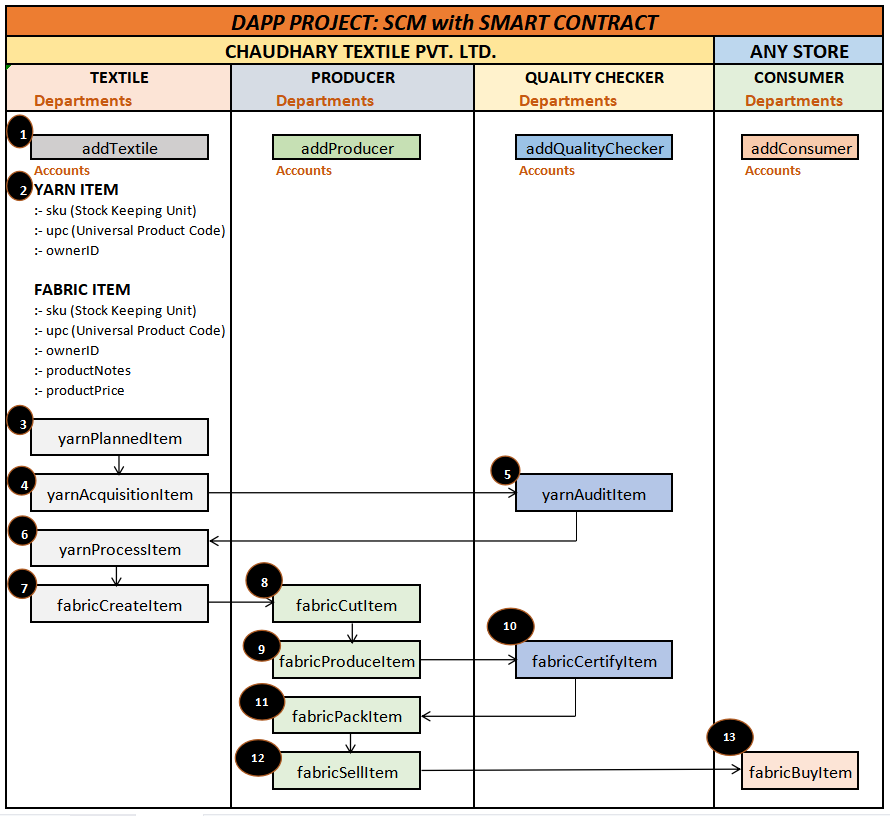
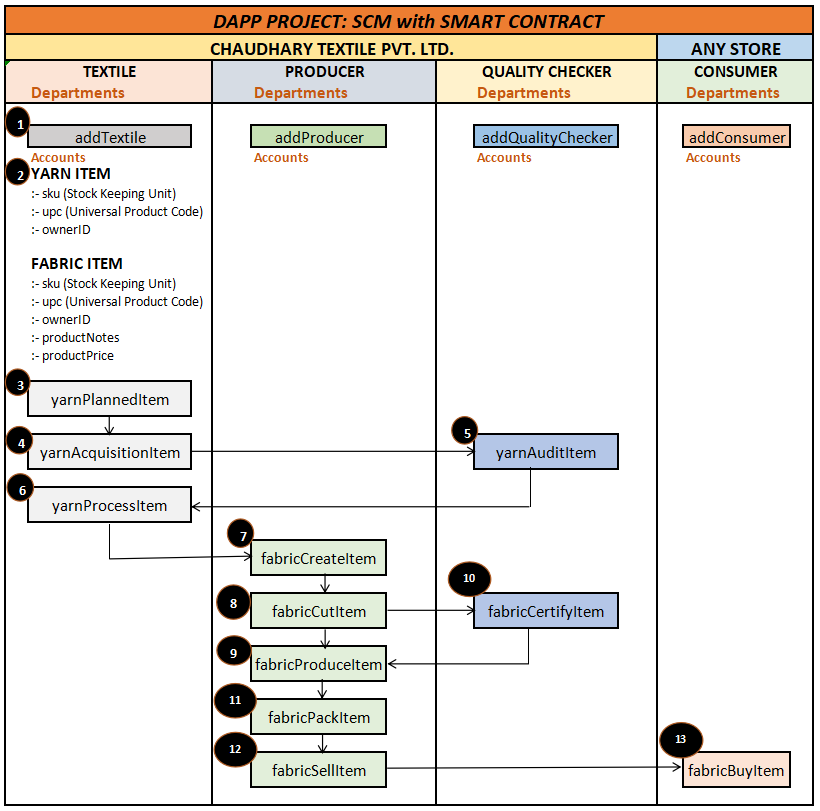
Update Diagram

Changed region(s): [[0.0, 0.0, 1.0, 1.0]]

diff --git a/README.md b/README.md
@@ -61,7 +61,7 @@ As a result, these contracts become immutable and trustworthy. The latest progre
 - **YarnAcquired:**  Then after planning for yarn purchase we acquired yarn for fabric.
 - **YarnAudited:**  In this contract quality audited by QC for purchased yarn.
 - **YarnProcessed:**  After quality audit yarn processed for fabric preparation.
-- **FabricCreated:**  Here fabric created with the help of processed yarn.
+- **FabricCreated:**  Here fabric created with the help of processed yarn by producer.
 - **FabricCutted:**  Here ready fabric cut in to proper sizes for production process.
 - **FabricProduced:**  In this this contract all size fabric produced by the producer for final packaging.
 - **FabricCertified:**  After fabric produced quality checker certified the quality of final product.
